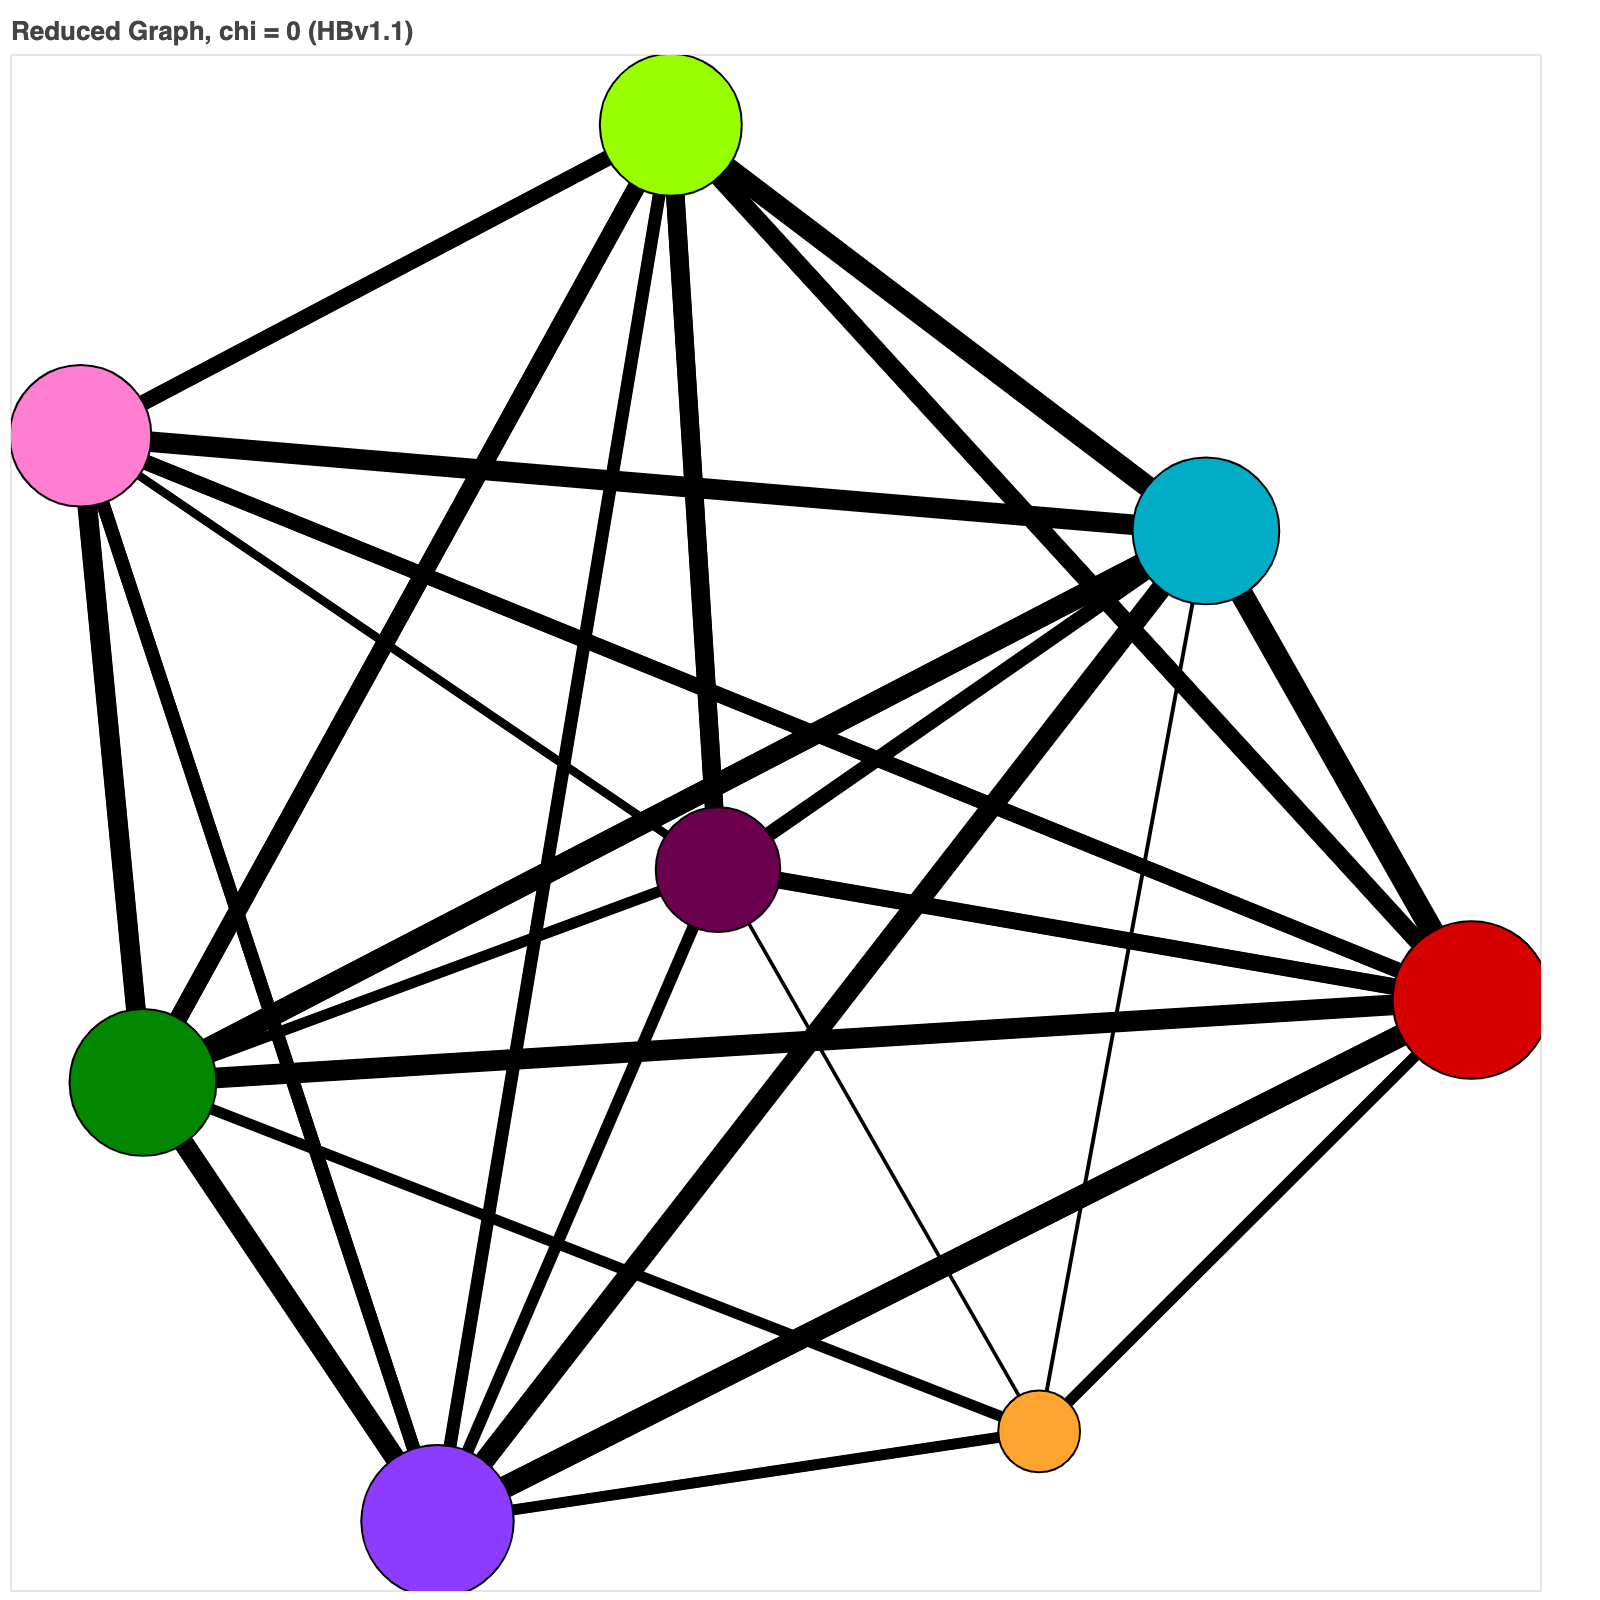
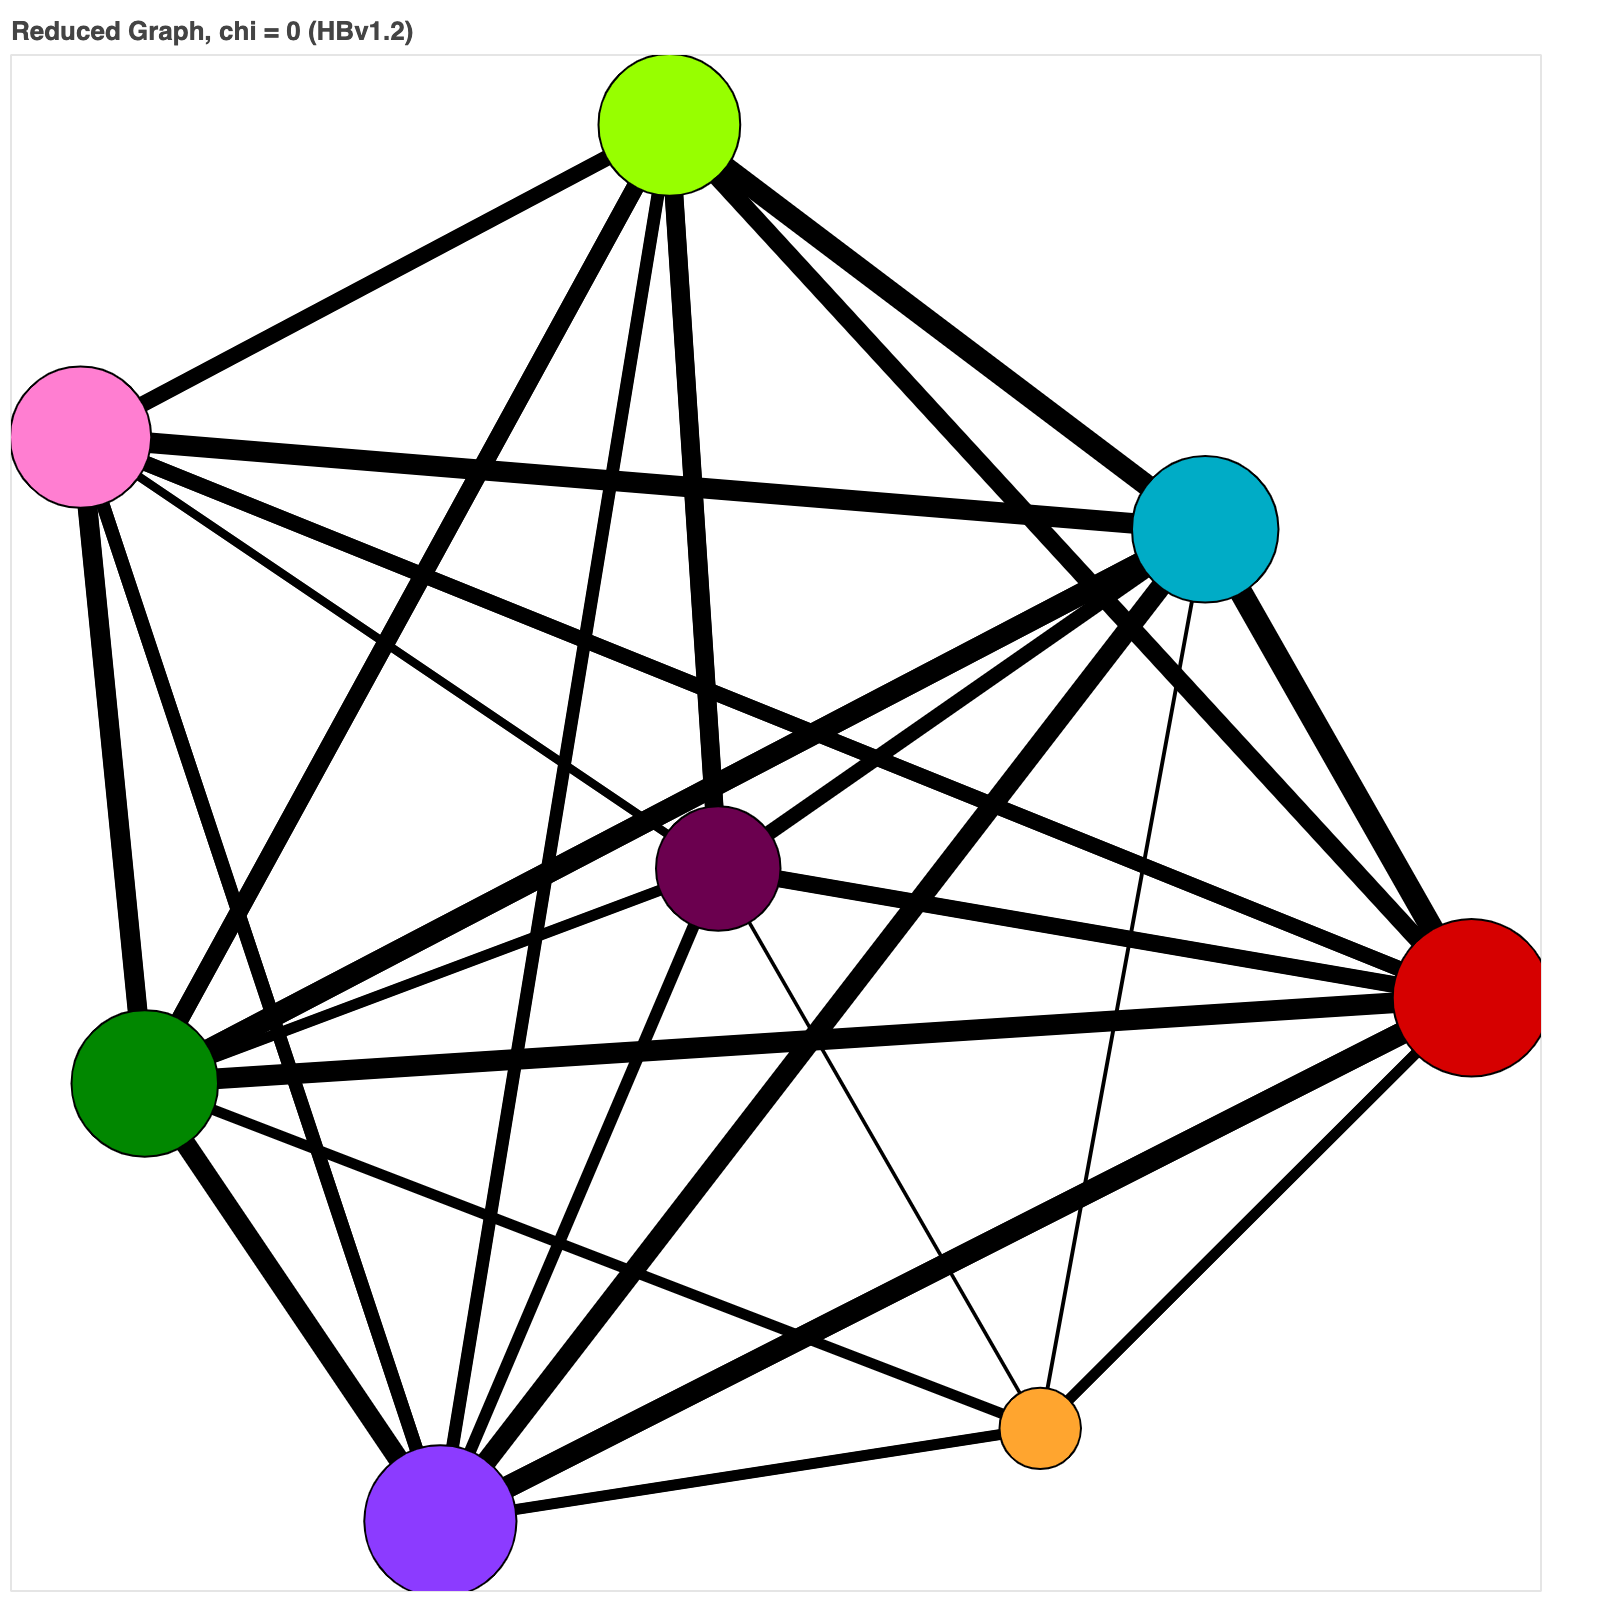
update to hemibrain v1.2

diff --git a/figures/reduced_graph_0.html b/figures/reduced_graph_0.html
@@ -8,7 +8,7 @@
   <head>
     
       <meta charset="utf-8">
-      <title>Reduced graph, chi = 0 (HBv1.1)</title>
+      <title>Reduced graph, chi = 0 (HBv1.2)</title>
       
       
         
@@ -34,14 +34,14 @@
           
           
             
-              <div class="bk-root" id="cf08405f-4577-40a2-aff6-347eb0a1883e" data-root-id="26291"></div>
+              <div class="bk-root" id="e221aa68-686b-4329-8d36-3b2146905b65" data-root-id="1059"></div>
             
           
         
       
       
-        <script type="application/json" id="27414">
[1 lines of base64/hex data omitted]
+        <script type="application/json" id="1420">
[1 lines of base64/hex data omitted]
         </script>
         <script type="text/javascript">
           (function() {
@@ -50,8 +50,8 @@
                 (function(root) {
                   function embed_document(root) {
                     
-                  var docs_json = document.getElementById('27414').textContent;
-                  var render_items = [{"docid":"dc1baf94-8b1a-4951-9a74-f4450858c57e","root_ids":["26291"],"roots":{"26291":"cf08405f-4577-40a2-aff6-347eb0a1883e"}}];
+                  var docs_json = document.getElementById('1420').textContent;
+                  var render_items = [{"docid":"bcde894e-96f0-403d-9923-2aefc364ac72","root_ids":["1059"],"roots":{"1059":"e221aa68-686b-4329-8d36-3b2146905b65"}}];
                   root.Bokeh.embed.embed_items(docs_json, render_items);
                 
                   }
